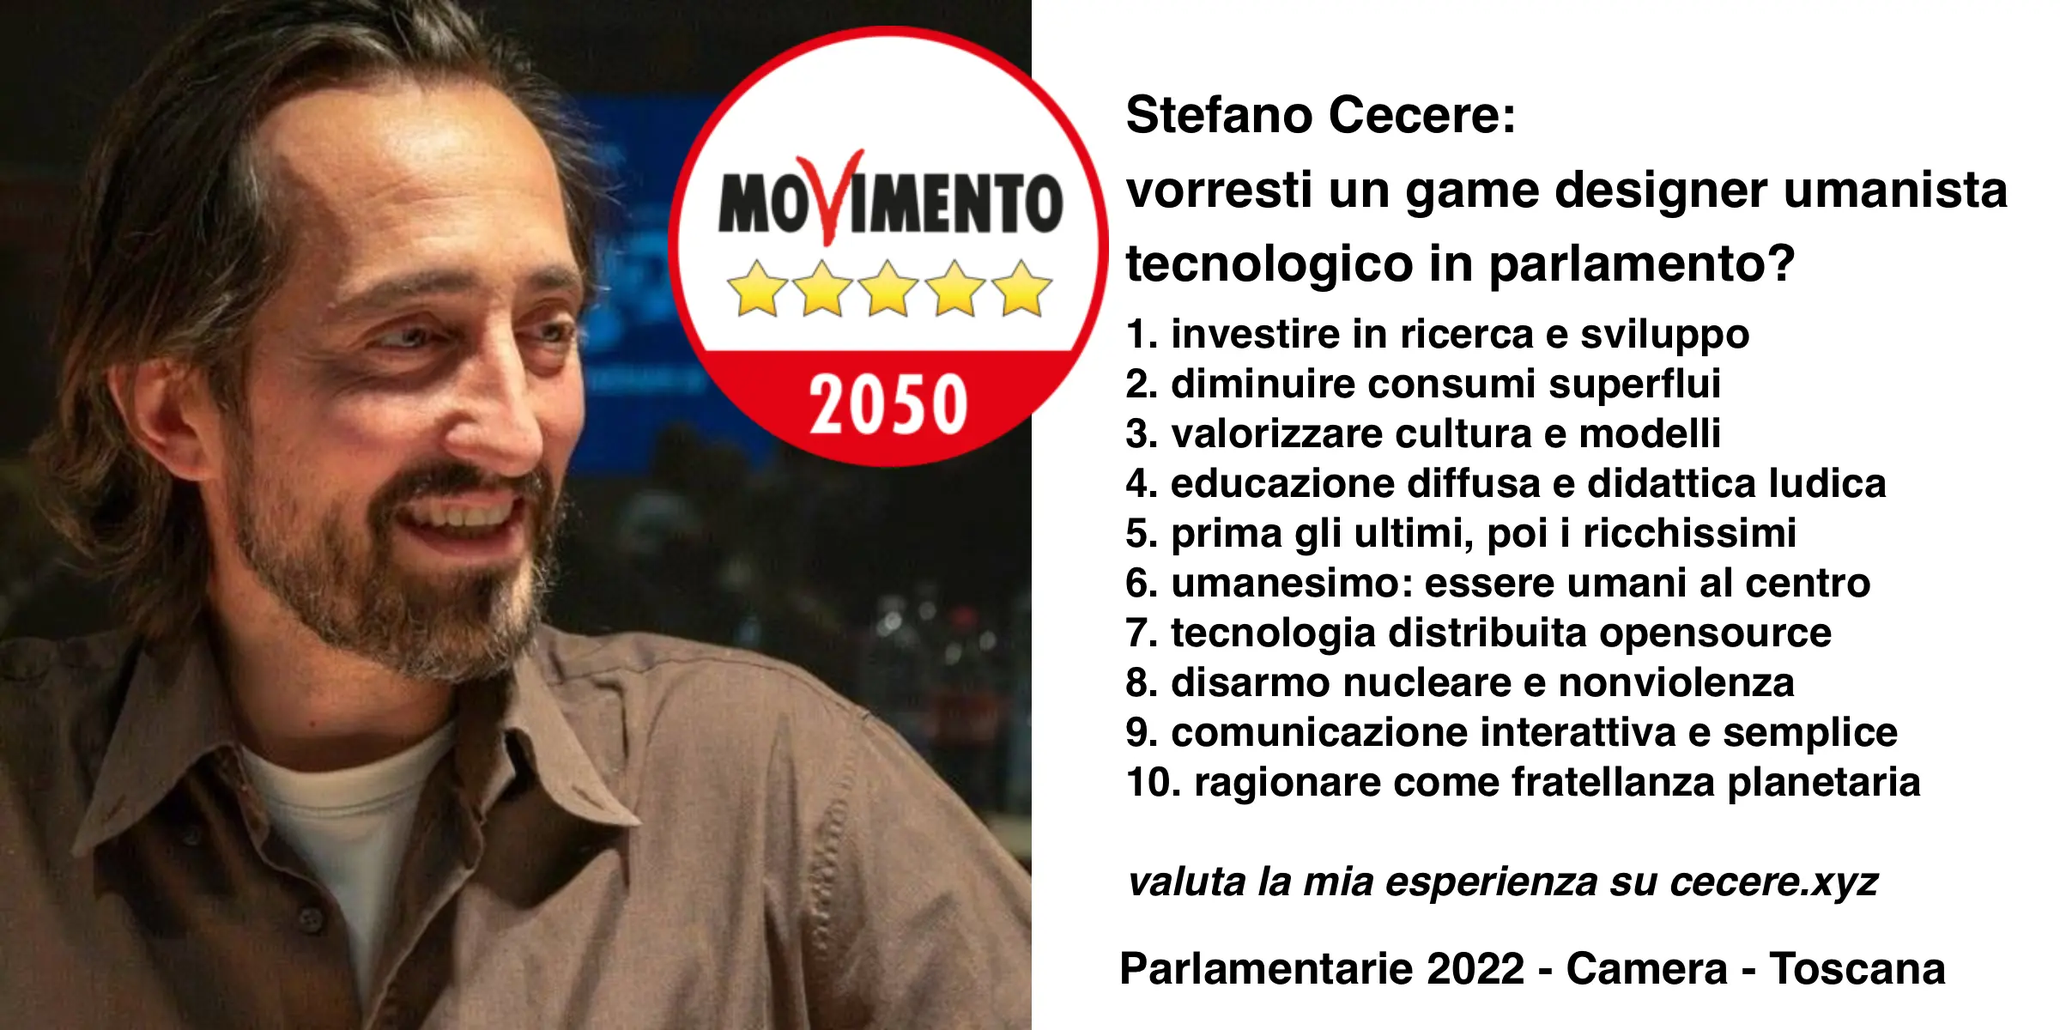
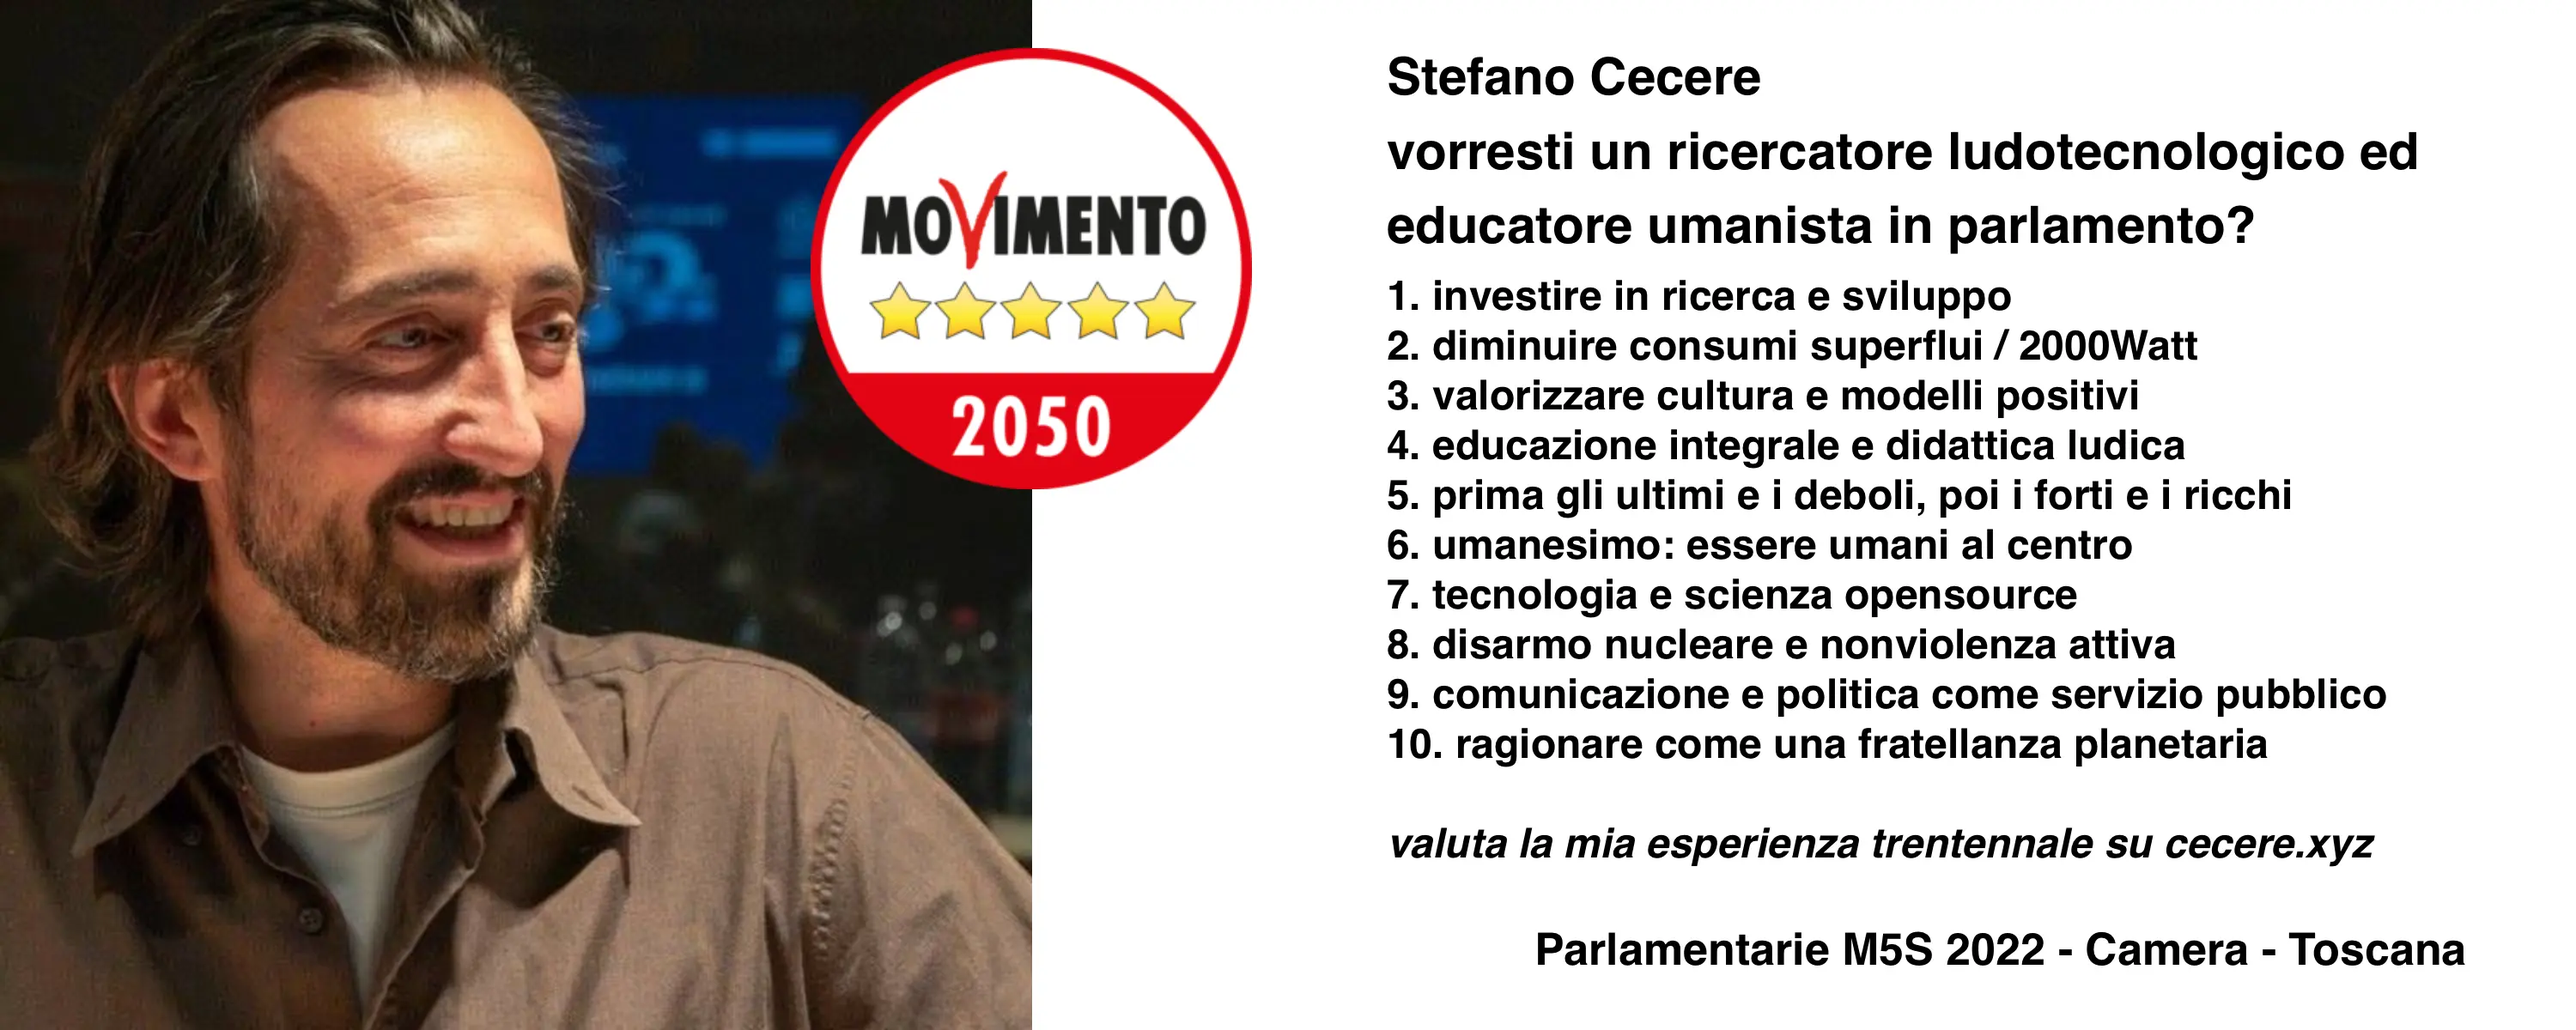
candidatura

diff --git a/content/post/blog/2022/08/candidatura-m5s-2022/index.md b/content/post/blog/2022/08/candidatura-m5s-2022/index.md
@@ -15,18 +15,42 @@ image:
 projects: []
 ---
 
-Vorresti un game designer umanista tecnologico in parlamento? Magari con decenni di attivismo e di esperienza in moltissimi ambiti e progetti, con l'intenzione di portare avanti almeno questi temi:
+Vorresti in Parlamento qualcuno:
+
+- Attivista Umanista dal 1996
+- Musicista professionista con centinaia di concerti
+- esperto di Informatica e computer dagli anni '80
+- creatore e sviluppatore di Videogiochi Educativi
+- laureando in Scienze della Formazione e Filosofia della Scienza
+- nel mezzo di cammin della sua vita (49 anni). non giovane ma non boomer.
+- con una eclettica libreria di 1200 Libri
+- girato il mondo per la Ricerca, la Pace e la Nonviolenza
+- organizza laboratori ludico/creativi (STEAM) per ragazzi
+- studia, ricerca e insegna le Nuove Tecnologie AI/AR/VR
+- ambasciatore dell'OpenSource e dell'Intelligenza Collettiva
+- considera il Gioco una delle attività più potenti di esperienza e formazione
+- a Ingegneria scoprì i frattali, il Caos e i Sistemi Complessi, e...
+- ha due Figli ma non si preoccupa solo dei suoi
+- promuove il Dialogo, ogni forma di espressione e la Comunicazione generativa
+- che in 33 anni ha lavorato da operaio, da professionista, da dipendente, da imprenditore in dozzine di realtà importanti
+- sa che la fortuna non è democratica, ma l'essere umano ha Empatia e Cretività
+- considera la Politica come un Servizio necessario per il meglio comune
+- ama lo Spazio e pensa ci sia un Senso, da qualche parte, e sia importante cercarlo
+- pensa che l'Immaginazione abbia evoluto l'umanità, e ci servono nuove immagini
+- forse meglio aggiungerlo: parla bene inglese, incensurato, sempre in regola con le tasse, non fa uso di droghe, non ha bisogno di un nuovo "lavoro" né di fama
+
+Con la capacità di parlare coscientemente e portare avanti questi temi:
 
 1. investire in ricerca e sviluppo
-2. diminuire consumi superflui
-3. valorizzare cultura e modelli
-4. educazione diffusa e didattica ludica
-5. prima gli ultimi, poi i ricchissimi
+2. diminuire consumi superflui / 2000Watt
+3. valorizzare cultura e modelli positivi
+4. educazione integrale e didattica ludica
+5. prima gli ultimi e i deboli, poi i forti e i ricchi
 6. umanesimo: essere umani al centro
-7. tecnologia distribuita opensource
-8. disarmo nucleare e nonviolenza
-9. comunicazione interattiva e semplice
-10. ragionare come fratellanza planetaria
+7. tecnologia e scienza opensource
+8. disarmo nucleare e nonviolenza attiva
+9. comunicazione e politica come servizio pubblico
+10. ragionare come una fratellanza planetaria
 
 ## Perchè mi candido?
 
